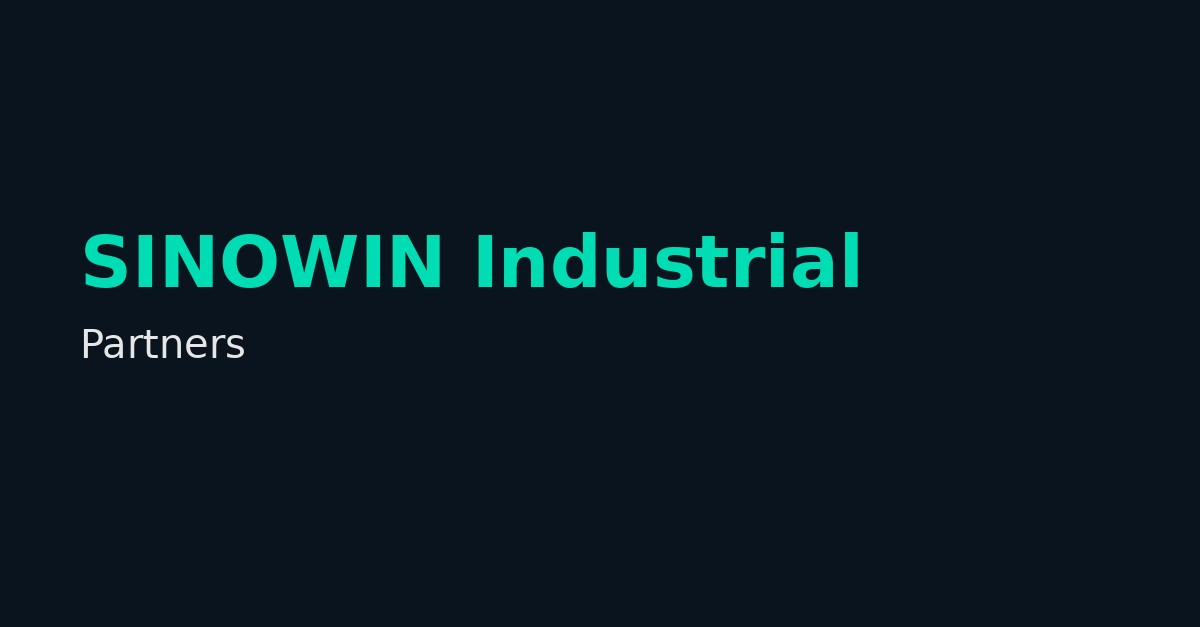
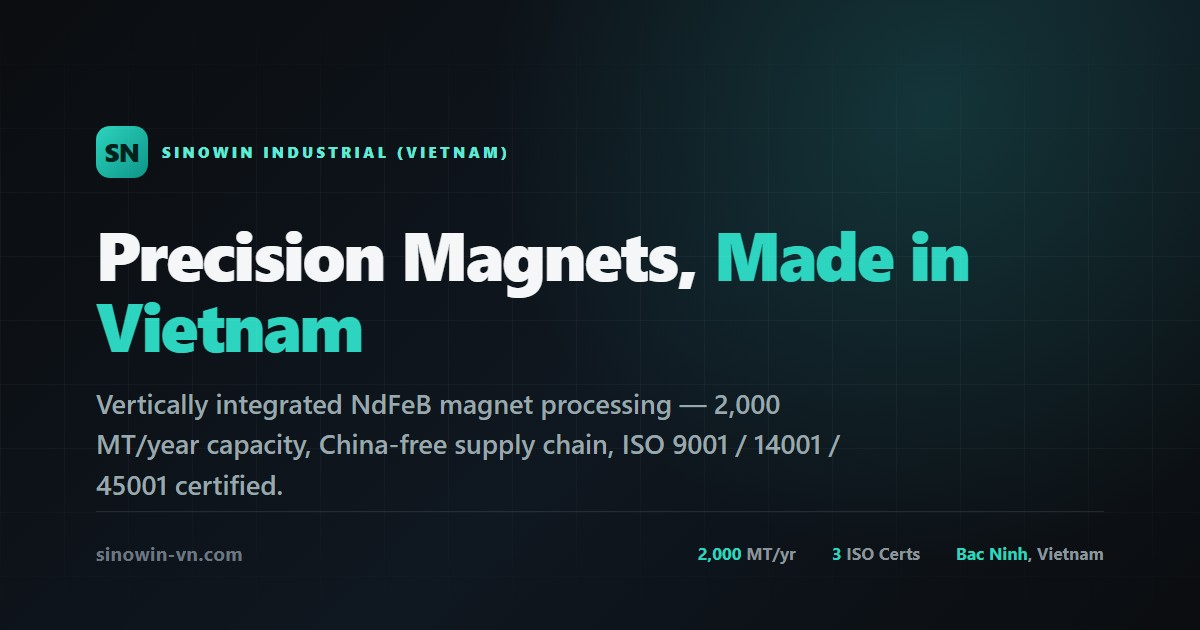
careers: remove character glow, normalize sizing, pin PM to female character; add OG tags to careers/articles; add careers nav link
Four independent fixes/additions:

1. Removed the teal rim-light drop-shadow on job-card characters -- kept
   only the grounding shadow. The glow read as an unwanted border rather
   than a clean illustration once the card background was lightened in the
   previous pass.

2. Character display size now uses a fixed box (object-contain) instead of
   fixed-height/auto-width. The 30 source crops aren't uniform -- the
   Vietnamese-team row in the original reference sheet was ~190px tall
   natively vs ~250-285px for Indian/American -- so auto-width let each
   character's native aspect ratio dictate its apparent footprint, making
   the shorter/rounder files look stockier next to the others even at the
   same CSS height. object-position (top/bottom, matching each corner's
   anchor edge) keeps feet or head flush with the box edge instead of
   floating in the middle of empty space.

3. Pinned the real "PM 專案管理師" job (_id-keyed, falls back to normal
   hash assignment if that job is ever recreated) to a female character --
   it had been landing on a male one.

4. Added Open Graph + Twitter Card metadata to /careers, /articles, and
   /articles/[slug] (prioritized per this round's instructions; other pages
   still need the same treatment). Article detail pages use the article's
   own Sanity cover image so a shared link actually previews the piece
   being shared; other pages fall back to a newly rendered branded default
[…]

diff --git a/src/app/[lang]/careers/page.tsx b/src/app/[lang]/careers/page.tsx
@@ -24,10 +24,26 @@ const T = {
 
 export async function generateMetadata({ params }: { params: { lang: string } }): Promise<Metadata> {
   const lang = params.lang as Locale
+  const title = `${T.title[lang]} — SINOWIN Careers`
+  const description = T.desc[lang]
+  const url = `https://www.sinowin-vn.com/${lang}/careers`
   return {
-    title: `${T.title[lang]} — SINOWIN Careers`,
-    description: T.desc[lang],
-    alternates: { canonical: `https://www.sinowin-vn.com/${lang}/careers` },
+    title,
+    description,
+    alternates: { canonical: url },
+    openGraph: {
+      title,
+      description,
+      url,
+      type: 'website',
+      images: [{ url: '/assets/og-careers.jpg', width: 1200, height: 630 }],
+    },
+    twitter: {
+      card: 'summary_large_image',
+      title,
+      description,
+      images: ['/assets/og-careers.jpg'],
+    },
   }
 }
 
@@ -39,17 +55,32 @@ export async function generateMetadata({ params }: { params: { lang: string } })
 // down the character's side of the content column, so text simply never
 // flows into the space the character occupies, regardless of how tall any
 // individual card ends up being.
-const CORNER_STYLE: Record<Corner, { img: string; pad: string }> = {
-  'bottom-right': { img: '-right-4 -bottom-4 sm:-right-8 sm:-bottom-8', pad: 'pr-28 sm:pr-32' },
-  'bottom-left': { img: '-left-4 -bottom-4 sm:-left-8 sm:-bottom-8', pad: 'pl-28 sm:pl-32' },
-  'top-right': { img: '-right-4 -top-4 sm:-right-8 sm:-top-8', pad: 'pr-28 sm:pr-32' },
+// object-bottom/object-top: within the fixed CHARACTER_BOX, keep the
+// character's feet flush with the bottom for corners anchored at the
+// card's bottom edge, and its head flush with the top for the one anchored
+// at the top -- otherwise object-contain centers it, floating away from
+// the edge it's supposed to be standing on.
+const CORNER_STYLE: Record<Corner, { img: string; pad: string; objectPosition: string }> = {
+  'bottom-right': { img: '-right-4 -bottom-4 sm:-right-8 sm:-bottom-8', pad: 'pr-28 sm:pr-32', objectPosition: 'bottom' },
+  'bottom-left': { img: '-left-4 -bottom-4 sm:-left-8 sm:-bottom-8', pad: 'pl-28 sm:pl-32', objectPosition: 'bottom' },
+  'top-right': { img: '-right-4 -top-4 sm:-right-8 sm:-top-8', pad: 'pr-28 sm:pr-32', objectPosition: 'top' },
 }
 
-// Two stacked drop-shadows: a grounding dark shadow so the character reads
-// as standing in front of the card, plus a soft teal rim glow so the navy
-// polo doesn't blend into the card's dark background (a real, confirmed
-// issue during testing).
-const CHARACTER_FILTER = 'drop-shadow(0 10px 16px rgba(0,0,0,0.6)) drop-shadow(0 0 12px rgba(45,212,191,0.4))'
+// Just a grounding shadow so the character reads as standing in front of
+// the card -- the earlier version added a teal rim-light glow too, but that
+// read as an unwanted glowing border rather than a clean illustration.
+const CHARACTER_FILTER = 'drop-shadow(0 10px 16px rgba(0,0,0,0.55))'
+
+// The 30 source crops aren't uniform: the Vietnamese-team row in the
+// original reference sheet was noticeably shorter than the Indian/American
+// rows, so those files are ~190px tall natively vs ~250-285px for the
+// others (see src/lib/manpower.ts). Displaying everyone at a fixed height
+// with auto width let that native ratio dictate the apparent footprint,
+// so the rounder/shorter files rendered visibly wider and stockier next to
+// the others. Fixing both width AND height with object-contain (like the
+// partner-logo sizing pass) puts every character in an identical box
+// regardless of native proportions.
+const CHARACTER_BOX = 'h-56 w-28 sm:h-64 sm:w-32 object-contain'
 
 // Real job descriptions turned out to be inconsistently formatted between
 // locales -- the Chinese text separates "主要職責" from the intro with a
@@ -143,8 +174,8 @@ function JobCard({ job, lang, character }: { job: SanityJobOpening; lang: Locale
         src={`/manpower/${character.file}`}
         alt=""
         aria-hidden="true"
-        className={`absolute z-10 h-56 sm:h-64 w-auto pointer-events-none select-none ${corner.img}`}
-        style={{ filter: CHARACTER_FILTER }}
+        className={`absolute z-10 pointer-events-none select-none ${CHARACTER_BOX} ${corner.img}`}
+        style={{ filter: CHARACTER_FILTER, objectPosition: corner.objectPosition }}
       />
     </div>
   )

diff --git a/src/app/[lang]/articles/[slug]/page.tsx b/src/app/[lang]/articles/[slug]/page.tsx
@@ -19,10 +19,33 @@ export async function generateMetadata({ params }: { params: { lang: string; slu
   const lang = params.lang as Locale
   const article = await getArticleBySlug(params.slug)
   if (!article) return {}
+
+  const title = t(article.metaTitle, lang) ?? t(article.title, lang) ?? ''
+  const description = t(article.metaDescription, lang) ?? t(article.excerpt, lang) ?? ''
+  const url = `https://www.sinowin-vn.com/${lang}/articles/${params.slug}`
+  // Prefer the article's own cover image so shares actually preview the
+  // piece being shared, not a generic site card -- fall back to the site
+  // default only if this article has none.
+  const ogImageUrl = urlForImage(article.coverImage)?.width(1200).height(630).fit('crop').url()
+
   return {
-    title: t(article.metaTitle, lang) ?? t(article.title, lang),
-    description: t(article.metaDescription, lang) ?? t(article.excerpt, lang),
-    alternates: { canonical: `https://www.sinowin-vn.com/${lang}/articles/${params.slug}` },
+    title,
+    description,
+    alternates: { canonical: url },
+    openGraph: {
+      title,
+      description,
+      url,
+      type: 'article',
+      publishedTime: article.publishDate,
+      images: ogImageUrl ? [{ url: ogImageUrl, width: 1200, height: 630 }] : [{ url: '/assets/og-default.jpg', width: 1200, height: 630 }],
+    },
+    twitter: {
+      card: 'summary_large_image',
+      title,
+      description,
+      images: [ogImageUrl ?? '/assets/og-default.jpg'],
+    },
   }
 }
 

diff --git a/src/app/[lang]/articles/page.tsx b/src/app/[lang]/articles/page.tsx
@@ -14,11 +14,35 @@ export async function generateStaticParams() {
   return locales.map((lang) => ({ lang }))
 }
 
+const ARTICLES_DESC: Record<Locale, string> = {
+  zh: '磁材技術、供應鏈、市場深度分析。',
+  en: 'Deep analysis on magnet technology, supply chain, and markets.',
+  vi: 'Phân tích chuyên sâu về công nghệ nam châm, chuỗi cung ứng, thị trường.',
+  ja: '磁石技術、サプライチェーン、市場の詳細分析。',
+}
+
 export async function generateMetadata({ params }: { params: { lang: string } }): Promise<Metadata> {
   const lang = params.lang as Locale
+  const title = lang === 'zh' ? '產業洞察 — SINOWIN' : 'Industry Insights — SINOWIN'
+  const description = ARTICLES_DESC[lang]
+  const url = `https://www.sinowin-vn.com/${lang}/articles`
   return {
-    title: lang === 'zh' ? '產業洞察 — SINOWIN' : 'Industry Insights — SINOWIN',
-    alternates: { canonical: `https://www.sinowin-vn.com/${lang}/articles` },
+    title,
+    description,
+    alternates: { canonical: url },
+    openGraph: {
+      title,
+      description,
+      url,
+      type: 'website',
+      images: [{ url: '/assets/og-default.jpg', width: 1200, height: 630 }],
+    },
+    twitter: {
+      card: 'summary_large_image',
+      title,
+      description,
+      images: ['/assets/og-default.jpg'],
+    },
   }
 }
 

diff --git a/src/lib/manpower.ts b/src/lib/manpower.ts
@@ -27,6 +27,16 @@ function hashString(input: string, seed = 0): number {
 
 export type CardCharacter = { file: string; corner: Corner }
 
+// Manual pin: the "PM 專案管理師" job's hash happened to land on a male
+// character; the user specifically asked for this listing to show a female
+// one instead. Keyed by Sanity document _id rather than title, since title
+// text differs per locale -- if this job is ever deleted and recreated in
+// Sanity (a new _id), this silently falls back to the normal hash-based
+// assignment below rather than breaking.
+const CHARACTER_OVERRIDES: Record<string, string> = {
+  'dac9084f-ecc7-4954-b55a-5def6d42a80b': '12_american_female_02.png',
+}
+
 // Deterministic per-job character assignment: the same job _id always maps
 // to the same base character, so a page refresh never swaps anyone out. A
 // single left-to-right pass over the currently displayed list then nudges
@@ -47,7 +57,7 @@ export function assignCharacters(jobIds: string[]): CardCharacter[] {
     assigned.push(idx)
   }
   return jobIds.map((id, i) => ({
-    file: MANPOWER_FILES[assigned[i]],
+    file: CHARACTER_OVERRIDES[id] ?? MANPOWER_FILES[assigned[i]],
     corner: CORNERS[hashString(id, 0x9e3779b1) % CORNERS.length],
   }))
 }

diff --git a/src/app/layout.tsx b/src/app/layout.tsx
@@ -10,8 +10,18 @@ const notoSansTC = Noto_Sans_TC({
 })
 
 export const metadata: Metadata = {
+  metadataBase: new URL('https://www.sinowin-vn.com'),
   title: 'SINOWIN INDUSTRIAL (VN) — Precision Magnet Processing',
   description: 'Vietnam-based precision magnet processing with 2,000 MT/year capacity, China-free supply chain, ISO 9001/14001/45001 certified.',
+  openGraph: {
+    siteName: 'SINOWIN Industrial (Vietnam)',
+    type: 'website',
+    images: [{ url: '/assets/og-default.jpg', width: 1200, height: 630 }],
+  },
+  twitter: {
+    card: 'summary_large_image',
+    images: ['/assets/og-default.jpg'],
+  },
 }
 
 export default function RootLayout({

diff --git a/src/sanity/lib/queries.ts b/src/sanity/lib/queries.ts
@@ -100,4 +100,4 @@ export const homepageContentQuery = `*[_type == "homepageContent"][0]{
 
 export const manufacturingIntroQuery = `*[_type == "manufacturingIntro"][0]{ pageTitle, intro }`
 
-export const navLabelsQuery = `*[_type == "navLabels"][0]{ home, manufacturing, about, faq, articles, contact }`
+export const navLabelsQuery = `*[_type == "navLabels"][0]{ home, manufacturing, about, faq, articles, careers, contact }`

diff --git a/src/app/[lang]/layout.tsx b/src/app/[lang]/layout.tsx
@@ -83,6 +83,7 @@ export default async function LocaleLayout({
               <Link className="nav-link hover:text-white transition" href={`${baseUrl}/about`}>{t(nav?.about, lang)}</Link>
               <Link className="nav-link hover:text-white transition" href={`${baseUrl}/faq`}>{t(nav?.faq, lang)}</Link>
               <Link className="nav-link hover:text-white transition" href={`${baseUrl}/articles`}>{t(nav?.articles, lang)}</Link>
+              <Link className="nav-link hover:text-white transition" href={`${baseUrl}/careers`}>{t(nav?.careers, lang)}</Link>
               <Link className="nav-link hover:text-white transition" href={`${baseUrl}#contact`}>{t(nav?.contact, lang)}</Link>
             </nav>
 

diff --git a/src/sanity/lib/types.ts b/src/sanity/lib/types.ts
@@ -116,5 +116,6 @@ export type SanityNavLabels = {
   about: LocaleString
   faq: LocaleString
   articles: LocaleString
+  careers: LocaleString
   contact: LocaleString
 } | null

diff --git a/src/sanity/schemaTypes/documents/navLabels.ts b/src/sanity/schemaTypes/documents/navLabels.ts
@@ -11,6 +11,7 @@ export default defineType({
     defineField({ name: 'about', title: 'About', type: 'localeString' }),
     defineField({ name: 'faq', title: 'FAQ', type: 'localeString' }),
     defineField({ name: 'articles', title: 'Articles', type: 'localeString' }),
+    defineField({ name: 'careers', title: 'Careers', type: 'localeString' }),
     defineField({ name: 'contact', title: 'Contact', type: 'localeString' }),
   ],
   preview: {